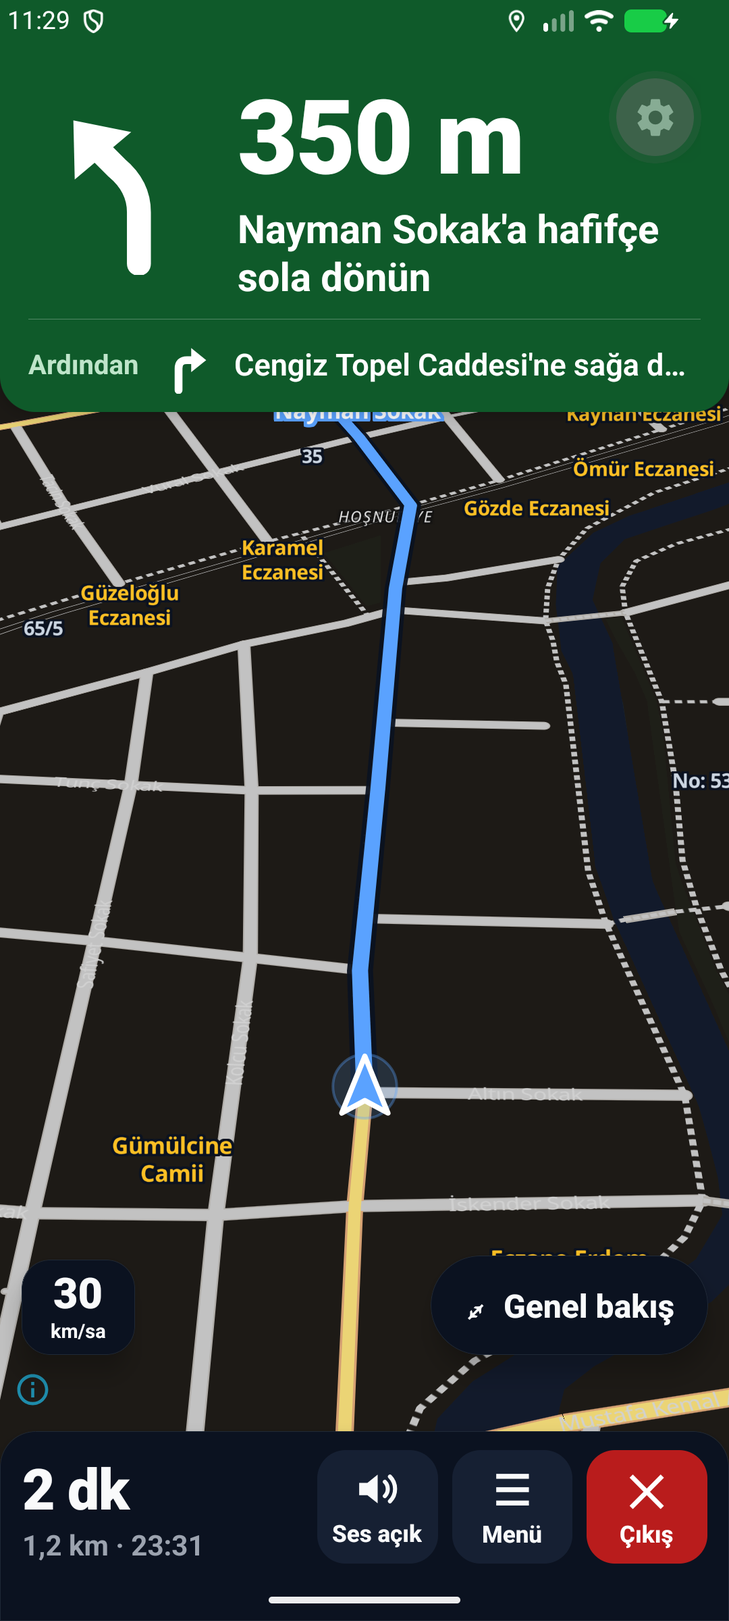
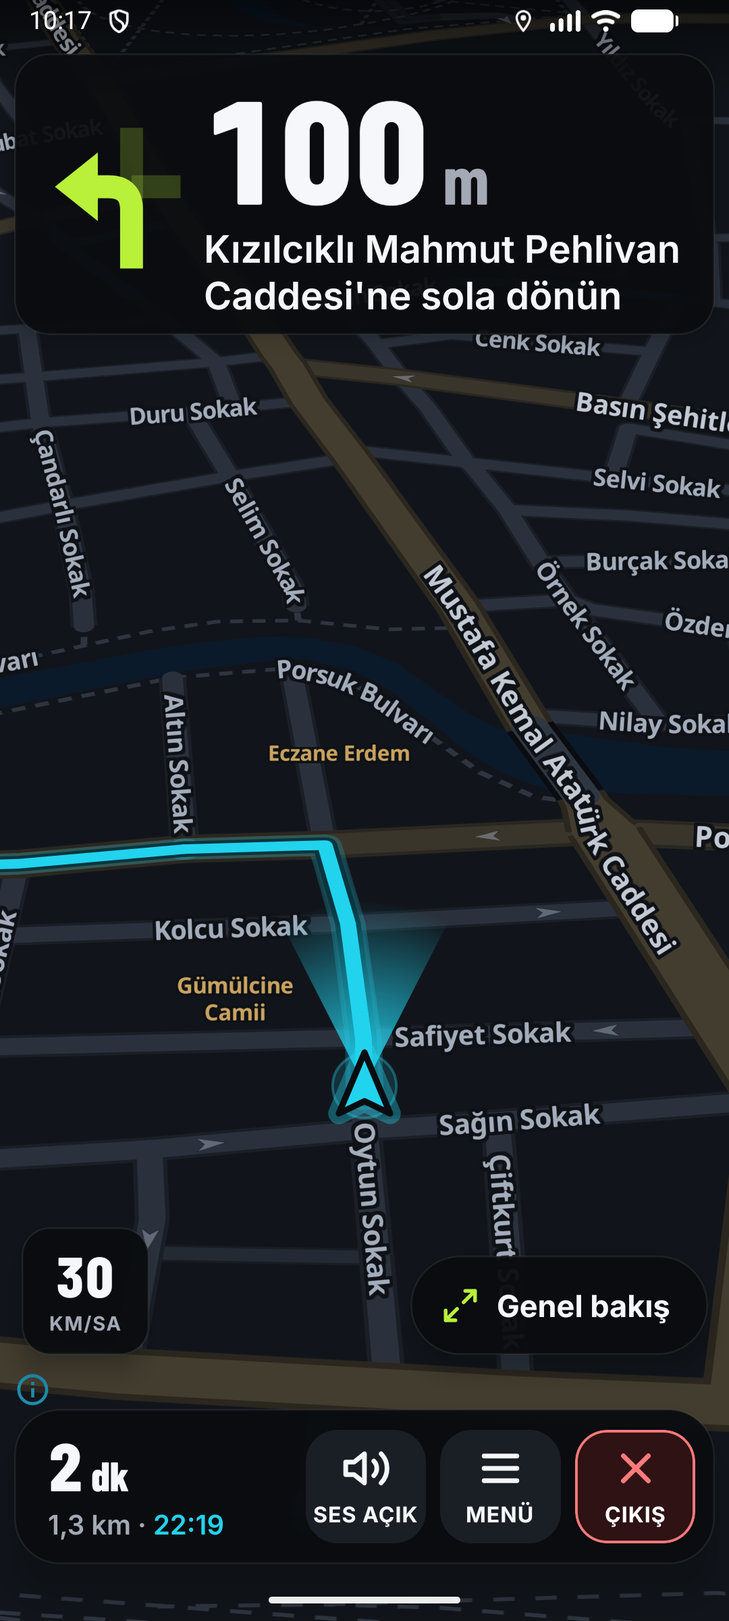
docs: Iterasyon 3b uygulamasi, navigasyon akiciligi (ADR-0024), marka kimligi (ADR-0027) ve yeni ekran goruntuleri

diff --git a/docs/benchmark/README.md b/docs/benchmark/README.md
@@ -34,6 +34,18 @@ Sentetik bir Eskişehir günü (20 kurye, ~400 sipariş, 10 tohum). Her ölçüt
 
 **Duyarlılık uyarısı:** yukarıdaki fark, stratejilerin hazır olma anını bilmediği varsayılan (pilotun bugünkü) durum içindir. İşletmenin hazır olma anı biliniyorsa (aşağıdaki duyarlılık koşusu) toplam km farkı A'ya göre B için -8.1%, C için -13.9%, geç teslim farkı B için -96.5%, C için -98.4% olur: kilometre kazancı belirgin biçimde küçülür, geç teslim kazancı büyür. Başlık sayıları bu yüzden tek başına değil, iki tabloyla birlikte okunmalıdır.
 
+## Aynı işletme gruplaması (İterasyon 3b-3): gerçek etki v2 taban çizgisine göredir
+
+Ayrıntılı rapor: v2/gruplama.md (30 tohum, eşleştirilmiş %95 GA, ablation). Dikkat: yukarıdaki tablolardaki A (NC) karşılaştırması gruplamanın etkisini **göstermez**; NC'ye göre +33 puanın hemen hemen tamamı dağıtım v2'nin kendisinden (60 sn pencere, regret-3) gelir. Gruplamanın gerçek etkisi RH60-PROD'a (v2, gruplamasız) göre farktır:
+
+| Varyant (aynı işletme kümesi aynı kuryede) | Varsayılan gün | Tepe gün |
+|---|---:|---:|
+| RH60-PROD (v2, gruplamasız) | %74,4 | %60,4 |
+| RH60-G, spec varsayılanları (κ 90, bağlama 120, τ 0,10), PROD'a göre | +1,4 puan [-1,1; 4,0] (anlamsız) | -1,2 puan [-3,3; 0,9] (anlamsız) |
+| RH60-G-T, önerilen (κ 150, bağlama 240, τ 0,5), PROD'a göre | +7,8 puan [5,2; 10,4] ✱ | +9,5 puan [7,4; 11,6] ✱ |
+
+Spec varsayılanlarında τ = 0,10 kazancı siler (tek başına PROD'a göre -4,0 / -5,7 puan ✱); κ ve sonradan bağlama tek başına +4-5 puan ✱. Önerilen bileşim toplam km'yi +%1,1 / +%1,2 ✱ ve geç teslimi +0,3 / +0,45 puan artırır. Tepe günde mutlak %75 hedefine ulaşılmadı (en iyi %71,4).
+
 ## Hipotezler ve sonuç
 
 Hipotezler (ROTA-UYUMLU-ATAMA §16) hedeftir, sonuç değildir; aşağıda ölçülen değerlerle karşılaştırılır.
@@ -117,6 +129,85 @@ Aynı tohumlar; stratejiler (motor) `readyAt` bilgisini kullanır (bekleme maliy
 | Yüklü oran (%) | -22.7% | -35.8% | -39.7% |
 | Aynı işletme kümesi aynı kuryede (%) | +4.3% | -29.1% | +9.0% |
 
+<!-- ready-3:begin -->
+## Hazır zamanı: üç koşul (İterasyon 3b-2)
+
+Hazır zamanının stratejilere nasıl bildirildiği üç koşulda karşılaştırılır; aynı gün, aynı tohum, aynı matris (10 tohum, varsayılan gün ~400 sipariş). Hazırlık süresi bu koşuda **işletme bazlı** modelle üretilir (`--prep business`): işletme medyanı U(6, 16) dk, tepe saatlerde × 1,2, lognormal σ = 0,35, [3, 30] dk kırpma. Varsayılan tablolar (yukarıdaki) bugünkü, işletmeden bağımsız 5-20 dk üreteciyle üretilmeye devam eder ve **değişmez**.
+
+- **Bilinmeyen:** hazır anı stratejiye bildirilmez; kurye gelir ve hazır olana kadar bekler (bugünkü durum).
+- **Tahmini:** `readyAt` = sipariş girişi + işletme × gün dilimi (tepe / tepe dışı) **P60** hazırlık süresi. Tahmin 14 eğitim gününden (tohum 1001-1014, rapor tohumları 1-10 ile ayrık) öğrenilir; bir kovada 10'dan az gözlem varsa kiracı varsayılanı 12 dk kullanılır. Stratejiler tahmini gerçek gibi kullanır; kurye gerçek hazır anına kadar bekler.
+- **Bilinen:** `readyAt` = gerçek hazır anı.
+
+Geç teslim
+
+Alış bekleme
+
+Her hücre 10 tohumun ortalaması ± standart sapmasıdır.
+
+| Strateji | Koşul | Geç teslim (%) | Alış bekleme (dk/sipariş) | Toplam km | Teslimat süresi (dk) | Aynı işletme aynı kuryede (%) |
+|---|---|---:|---:|---:|---:|---:|
+| **A (en yakın kurye)** | Bilinmeyen (bugünkü) | 25.45 ± 4.46 | 5.22 ± 0.33 | 1918.38 ± 116.72 | 43.68 ± 1.30 | 46.67 ± 6.16 |
+| **A (en yakın kurye)** | Tahmini (P60) | 25.45 ± 4.46 | 5.22 ± 0.33 | 1918.38 ± 116.72 | 43.68 ± 1.30 | 46.67 ± 6.16 |
+| **A (en yakın kurye)** | Bilinen (gerçek) | 25.45 ± 4.46 | 5.22 ± 0.33 | 1918.38 ± 116.72 | 43.68 ± 1.30 | 46.67 ± 6.16 |
+| **D (A + sıra)** | Bilinmeyen (bugünkü) | 16.37 ± 3.02 | 4.94 ± 0.39 | 1673.52 ± 120.21 | 40.28 ± 1.01 | 47.57 ± 9.63 |
+| **D (A + sıra)** | Tahmini (P60) | 4.28 ± 1.21 | 3.71 ± 0.39 | 1727.91 ± 127.06 | 35.04 ± 0.95 | 49.79 ± 8.10 |
+| **D (A + sıra)** | Bilinen (gerçek) | 2.71 ± 0.94 | 3.63 ± 0.36 | 1716.10 ± 115.26 | 33.75 ± 0.70 | 50.52 ± 9.42 |
+| **B (ONERI üst sınırı)** | Bilinmeyen (bugünkü) | 6.31 ± 1.30 | 5.70 ± 0.31 | 1308.21 ± 73.18 | 32.12 ± 0.51 | 46.87 ± 11.22 |
+| **B (ONERI üst sınırı)** | Tahmini (P60) | 0.95 ± 0.51 | 2.83 ± 0.21 | 1853.31 ± 83.14 | 28.63 ± 0.48 | 29.91 ± 11.27 |
+| **B (ONERI üst sınırı)** | Bilinen (gerçek) | 0.33 ± 0.49 | 2.36 ± 0.23 | 1823.37 ± 83.81 | 26.89 ± 0.58 | 28.06 ± 10.56 |
+| **C (v1 OTOMATİK)** | Bilinmeyen (bugünkü) | 4.74 ± 1.30 | 4.61 ± 0.21 | 1311.81 ± 65.38 | 31.58 ± 0.49 | 60.49 ± 16.27 |
+| **C (v1 OTOMATİK)** | Tahmini (P60) | 0.98 ± 0.59 | 1.73 ± 0.12 | 1711.76 ± 73.95 | 29.56 ± 0.54 | 42.19 ± 18.06 |
+| **C (v1 OTOMATİK)** | Bilinen (gerçek) | 0.43 ± 0.30 | 1.45 ± 0.21 | 1719.04 ± 76.61 | 27.17 ± 0.33 | 39.98 ± 7.51 |
+| **RH60-PROD (v2)** | Bilinmeyen (bugünkü) | 5.08 ± 1.52 | 4.60 ± 0.25 | 1307.41 ± 73.98 | 30.55 ± 0.75 | 72.67 ± 7.76 |
+| **RH60-PROD (v2)** | Tahmini (P60) | 0.86 ± 0.38 | 2.04 ± 0.22 | 1652.94 ± 69.77 | 28.42 ± 0.32 | 51.52 ± 11.40 |
+| **RH60-PROD (v2)** | Bilinen (gerçek) | 0.22 ± 0.25 | 1.61 ± 0.17 | 1658.53 ± 77.87 | 26.23 ± 0.29 | 53.36 ± 9.01 |
+| **RH60-G (v2 + gruplama)** | Bilinmeyen (bugünkü) | 5.04 ± 1.33 | 4.61 ± 0.26 | 1318.06 ± 71.99 | 30.74 ± 0.54 | 74.53 ± 8.16 |
+| **RH60-G (v2 + gruplama)** | Tahmini (P60) | 1.06 ± 0.44 | 1.96 ± 0.20 | 1649.27 ± 78.48 | 28.61 ± 0.47 | 44.28 ± 12.94 |
+| **RH60-G (v2 + gruplama)** | Bilinen (gerçek) | 0.27 ± 0.24 | 1.57 ± 0.18 | 1660.89 ± 71.68 | 26.30 ± 0.40 | 52.00 ± 10.97 |
+
+**Bilinmeyen koşuya göre eşleştirilmiş fark** (aynı tohum), ortalama [%95 GA, t dağılımı, sd = 9]; ✱ = aralık 0'ı içermiyor. Negatif geç teslim ve bekleme iyidir.
+
+| Strateji | Karşılaştırma | Geç teslim (%) | Alış bekleme (dk/sipariş) | Toplam km | Teslimat süresi (dk) |
+|---|---|---:|---:|---:|---:|
+| **A (en yakın kurye)** | Tahmini (P60) − Bilinmeyen (bugünkü) | +0.00 [0.00, 0.00] | +0.00 [0.00, 0.00] | +0.00 [0.00, 0.00] | +0.00 [0.00, 0.00] |
+| **A (en yakın kurye)** | Bilinen (gerçek) − Bilinmeyen (bugünkü) | +0.00 [0.00, 0.00] | +0.00 [0.00, 0.00] | +0.00 [0.00, 0.00] | +0.00 [0.00, 0.00] |
+| **D (A + sıra)** | Tahmini (P60) − Bilinmeyen (bugünkü) | -12.10 [-14.57, -9.63] ✱ | -1.24 [-1.47, -1.00] ✱ | +54.40 [15.17, 93.62] ✱ | -5.24 [-6.04, -4.43] ✱ |
+| **D (A + sıra)** | Bilinen (gerçek) − Bilinmeyen (bugünkü) | -13.66 [-15.75, -11.58] ✱ | -1.32 [-1.52, -1.11] ✱ | +42.58 [11.41, 73.76] ✱ | -6.53 [-7.20, -5.87] ✱ |
+| **B (ONERI üst sınırı)** | Tahmini (P60) − Bilinmeyen (bugünkü) | -5.36 [-6.28, -4.43] ✱ | -2.87 [-3.02, -2.72] ✱ | +545.09 [526.78, 563.41] ✱ | -3.49 [-4.07, -2.90] ✱ |
+| **B (ONERI üst sınırı)** | Bilinen (gerçek) − Bilinmeyen (bugünkü) | -5.98 [-7.07, -4.89] ✱ | -3.34 [-3.50, -3.17] ✱ | +515.15 [492.22, 538.08] ✱ | -5.23 [-5.77, -4.69] ✱ |
+| **C (v1 OTOMATİK)** | Tahmini (P60) − Bilinmeyen (bugünkü) | -3.76 [-4.76, -2.76] ✱ | -2.88 [-2.96, -2.81] ✱ | +399.94 [370.17, 429.72] ✱ | -2.02 [-2.30, -1.74] ✱ |
+| **C (v1 OTOMATİK)** | Bilinen (gerçek) − Bilinmeyen (bugünkü) | -4.31 [-5.28, -3.34] ✱ | -3.16 [-3.31, -3.02] ✱ | +407.23 [389.18, 425.27] ✱ | -4.41 [-4.90, -3.91] ✱ |
+| **RH60-PROD (v2)** | Tahmini (P60) − Bilinmeyen (bugünkü) | -4.23 [-5.14, -3.32] ✱ | -2.56 [-2.75, -2.38] ✱ | +345.53 [319.49, 371.58] ✱ | -2.13 [-2.60, -1.66] ✱ |
+| **RH60-PROD (v2)** | Bilinen (gerçek) − Bilinmeyen (bugünkü) | -4.86 [-5.90, -3.82] ✱ | -2.99 [-3.14, -2.84] ✱ | +351.12 [325.88, 376.36] ✱ | -4.32 [-4.86, -3.77] ✱ |
+| **RH60-G (v2 + gruplama)** | Tahmini (P60) − Bilinmeyen (bugünkü) | -3.98 [-4.87, -3.09] ✱ | -2.64 [-2.84, -2.45] ✱ | +331.21 [304.21, 358.20] ✱ | -2.13 [-2.64, -1.62] ✱ |
+| **RH60-G (v2 + gruplama)** | Bilinen (gerçek) − Bilinmeyen (bugünkü) | -4.76 [-5.74, -3.78] ✱ | -3.04 [-3.18, -2.91] ✱ | +342.83 [316.01, 369.65] ✱ | -4.45 [-5.00, -3.89] ✱ |
+
+**Tahminin kapattığı fark:** tahmini koşuyla bilinen koşu arasında kalan fark (tahmini − bilinen) ve bilinmeyenden bilinene toplam iyileşmenin ne kadarını tahmin yakaladığı:
+
+| Strateji | Geç teslim: tahmini − bilinen (puan) | Alış bekleme: tahmini − bilinen (dk) | Bekleme iyileşmesinin yakalanan payı |
+|---|---:|---:|---:|
+| **A (en yakın kurye)** | 0.00 | 0.00 | - |
+| **D (A + sıra)** | 1.57 | 0.08 | %94 |
+| **B (ONERI üst sınırı)** | 0.62 | 0.47 | %86 |
+| **C (v1 OTOMATİK)** | 0.55 | 0.28 | %91 |
+| **RH60-PROD (v2)** | 0.63 | 0.43 | %86 |
+| **RH60-G (v2 + gruplama)** | 0.79 | 0.40 | %87 |
+
+**Tahmin hatası (MAE):** gerçek hazırlık süresi ile tahmin arasındaki ortalama mutlak hata, rapor günlerindeki tüm siparişler üzerinden.
+
+| Tahmin | MAE (dk) |
+|---|---:|
+| İşletme × gün dilimi P60 (14 eğitim günü) | 3.57 |
+| Kiracı varsayılanı (sabit 12 dk) | 4.44 |
+| İşletme × gün dilimi P50 (bilgi amaçlı; stratejilere verilmez) | 3.45 |
+| P60'ın varsayılana göre farkı | -19.8% |
+| P50'nin varsayılana göre farkı | -22.3% |
+
+SPEC §15.1 3b-2 (b): ≥ 10 gözlemli işletmede MAE'nin işletme varsayılanından en az %20 düşük olması beklenir; bu sentetik veride P60 için karşılanmadı (-19.8%), P50 için karşılandı (-22.3%; MAE'yi en aza indiren tahmin medyandır, P60 ise bilinçli olarak biraz yüksek tahmin eder: kurye hazır olmadan gelmesin) (kovaların 80/80'i ≥ 10 gözlemli). Hazırlık süresi bu senaryoda yalnızca işletmeye ve tepe saate bağlıdır; gerçek hayatta hazırlık günlük dalgalanmaya, sipariş içeriğine ve yoğunluğa da bağlıdır, bu yüzden pilot verisiyle (`GET /metrics/preparation`) doğrulanmalıdır.
+
+Sentetik senaryodur; bulgular pilotla doğrulanır. Tahmin yalnızca işletmeye göre değişen hazırlığı yakalar, günlük dalgalanmayı yakalayamaz; bu yüzden "bilinen" koşuya hiçbir zaman ulaşmaması beklenir.
+<!-- ready-3:end -->
+
 ## Motor öneri süresi (bu makinede)
 
 Matrix sağlayıcıyla saf CPU: `suggest()` çağrısı p50 0.40 ms, p95 1.36 ms (n = 5524); `planBatch` p50 0.63 ms, p95 2.08 ms (n = 8835). Süreler makineye bağlıdır ve CSV'ye girmez; gerçek OSRM ile uçtan uca ölçüm için `npm run bench:suggest -w @kurye/api`.
@@ -140,6 +231,7 @@ npm install
 npm run benchmark                  # docs/benchmark/ altındaki dosyaları yeniden üretir (önbellekli matris)
 npm run benchmark -- --refresh-matrix   # matrisi çalışan OSRM'den yeniden hesaplar (npm run routing:up)
 npm run benchmark -- --quick --travel haversine   # OSRM'siz duman testi (yayımlanmaz)
+npm run benchmark -- --prep business --ready-modes unknown,estimated,known   # Hazır zamanı: üç koşul (results-ready-3.csv, ready-3.md)
 ```
 
 İki ardışık koşu bayt düzeyinde aynı `results.csv` dosyasını üretir (zaman damgası yok, tohumlu PRNG, duvar saati kullanılmaz).

diff --git a/docs/kararlar/0024-navigasyon-render-performansi.md b/docs/kararlar/0024-navigasyon-render-performansi.md
@@ -1,0 +1,48 @@
+# ADR-0024: Navigasyon ekranında render performansı (yerel kamera animasyonu, konum başına harita ağacı çizimi yok, kalite kademesi)
+
+- **Durum:** Önerildi (ürün sahibi onayına; gerçek cihaz ölçümü bekleniyor)
+- **Tarih:** 2026-11-06
+- **Ayrıntılandırdığı karar:** [ADR-0015](0015-uygulama-ici-navigasyon.md) madde 3 ("kamera ve konum işaretçisi animasyonları sınırlıdır") ve N2 brief'indeki kare hızı bütçesi
+- **İlgili:** [ADR-0002](0002-kurye-uygulamasi-react-native-expo.md), [ADR-0019](0019-kurye-cevrimdisi-harita-ve-navigasyon.md), ölçüm belgesi NAVIGASYON-AKICILIK.md
+
+## Bağlam
+
+- Navigasyon ekranı MapLibre (`@maplibre/maplibre-react-native` 11.5, MapLibre Native Android, `SurfaceView`) üzerinde course-up takip kamerası, rota çizgisi, koridor etiketleri (`within` filtresi), sokak adları, hedef işareti ve React Native bant / alt çubuktan oluşur.
+- Sürüm APK'sıyla emülatörde (2 GB RAM, `-gpu host`) 1 Hz GPS oynatmasında ölçüldü (SurfaceFlinger timestats, `top -H`, uygulama içi JS sondası). Ayrıntılı sayılar belgede; özet:
+  - Harita yüzeyi 30 fps tavanında (`preferredFramesPerSecond={30}`) bile ortalama 8-25 fps, kare aralığı p50 33-110 ms; **MapLibre GL iş parçacığı %65-90 CPU** ile darboğaz (emülatörün GL çeviri yolu pahalıdır; gerçek cihazda farklı olabilir).
+  - Her GPS okumasında tüm `NavMap` React ağacı yeniden çiziliyordu (`NavMap.render` 1/sn; 4 kaynak + 12 katman bileşeni) ve tüm kalan rota GeoJSON'u yeniden gönderiliyordu.
+  - Hedef işareti bir RN görünümü (`Marker`) olduğu için Android her harita karesinde onu yeniden konumluyor, **uygulama penceresi (HWUI) harita kare hızında yeniden çiziliyordu** (ablasyon: işaret kaldırılınca uygulama penceresi 24 fps -> 1,4 fps).
+  - Kamera 1 sn doğrusal `easeTo` ile ve en az 900 ms arayla güncelleniyordu: 980 ms gibi titreşimli 1 Hz okumalar atlanıyor, animasyon biter bitmez harita bir sonraki okumaya kadar duruyordu (200-999 ms'lik "duraklama" kareleri).
+  - **Ürün sahibi hatası:** yeniden rotadan sonra harita eski yönde çapraz kalıyordu (yön süzgeci adım başına 40° ile sınırlıydı ve sıfırlanmıyordu; ilk kamera hedefi harita abone olmadan yayınlanıp kayboluyordu).
+
+## Karar
+
+1. **Kamera yerelde, öngörülü ve kesintisiz akar.** Oturum her okumada (en az 400 ms arayla) bir kamera hedefi üretir; harita bunu MapLibre `easeTo` (doğrusal) ile verir. Süre = beklenen konum aralığı (üstel ortalama, 0,5-2 sn) x 1,5; hedef, rotaya oturmuşken hızla 0,5 aralık kadar **rota üzerinde ileri** alınmış noktadır. Kararlı durumda kamera gerçek hızla akar, gecikme bir konum aralığıdır (eskisiyle aynı) ve sonraki okuma 0,5 aralığa kadar gecikse de harita durmaz.
+2. **Course-up yönü rota geometrisinden.** Yön hedefi oturtulan noktanın önündeki ~30 m'lik rota parçasının yönüdür; GPS yönü yalnızca rotaya oturmamışken yedektir. Alçak geçiren süzgeç: güncelleme başına farkın %60'ı, en çok 60°. Yeniden rotada süzgeç sıfırlanır; son kamera hedefi oturumda tutulur ve harita onunla açılır. Puk ekranda sabit (alttan ~%33, yatay ortada), eğim 45° / dururken 30°, "Ortala" aynı kameraya döner (davranış değişmedi).
+3. **Konum başına harita ağacı çizimi yok.** `NavMap` ve katmanları yalnızca takip / kullanıcı etkileşiminde (ve 30 sn'lik fps örneklemesinde) çizilir; yalnızca küçük `RouteLine` bileşeni rota başı GeoJSON'unu göndermek için okuma başına çizilir (MapLibre RN'de kaynağa veriyi React çizimi olmadan gönderen bir API yok). Konuma bağlı her parça (rota başı, puk halesi, hız çipi, koridor filtresi, sokak adları, hedef etiketi, "rotaya dön" çizgisi) kendi `memo` bileşeninde oturuma abonedir ve yalnızca kendi değeri değişince çizilir (ör. hale 2 px adımla, hız tam sayı km/sa ile). Katman `paint` / `layout` nesneleri sabittir.
+4. **Rota çizgisi iki kaynak:** "baş" (kuryeden ~250 m ilerideki köşeye kadar, birkaç nokta, her okumada) ve "kuyruk" (oradan hedefe, ~250 m'de bir). Baş, bir önceki okumanın rota noktasından başlar; kamera bir aralık geriden geldiği için çizgi puk'un altından çıkar.
+5. **Hedef işareti (RN görünümü) yalnızca gerektiğinde:** takip kamerasında hedef kuş uçuşu 1,5 km'den yakınken ya da takip kapalıyken (genel bakış, kaydırma). Görünen davranış aynı; uzaktayken uygulama penceresi her harita karesinde yeniden çizilmez.
+6. **Kalite kademesi** (`src/navigation/quality.ts`, `expo-device`): toplam bellek < 2,5 GB veya cihaz yıl sınıfı <= 2015 ise **düşük**: 30 fps tavan, eğimsiz (düz) kamera, koridor filtresi ~250 m / 10 sn'de bir (önde yine en az ~1 km), kısa geçişler. Aksi halde **yüksek**: eğik kamera, koridor ~100 m / 5 sn ve **uyarlanır kare tavanı**: 60 fps ile başlar; oturum boyunca her 30 sn'de bir ısınma + iki 3 sn'lik pencere örneklenir (kare olayı yalnızca bu 9 sn'de JS'e gelir); harita akarken ölçülen iki ardışık pencere 40 fps'in altındaysa tavan oturum boyunca 30'a iner, geri çıkmaz. **Emülatör** (`Device.isDevice === false`) belleğine bakılmadan yüksek kademedir; gerçek 2 GB telefonlar düşük kalır. Test APK'sında `EXPO_PUBLIC_NAV_FPS_OVERLAY=1` ekranda harita fps'ini gösterir (gerçek cihaz protokolü). Gerekçe: emülatörde GL iş parçacığı doygunken 60 tavanı 30'dan belirgin biçimde kötüydü (aynı koşullarda ortalama 11 fps'e karşı 18-22 fps). `EXPO_PUBLIC_NAV_QUALITY=low|high` derleme anahtarı kademeyi zorlar.
+7. **Ölçüm araçları depoda:** `scripts/nav-perf-measure.mjs` (timestats + `top -H` + gfxinfo + meminfo + JS sondası, tek pencere), `scripts/gps-playback.mjs --interval-ms 1000 --max-s`, `src/navigation/perfProbe.ts` (yalnızca `EXPO_PUBLIC_NAV_PERF=1`).
+
+## Sonuçlar
+
+- (+) Kamera konum gecikmelerinde durmaz: emülatörde (temiz durum) 110 sn'de >= 100 ms takılma 71 -> 5-10, 200-999 ms duraklama 16 -> 0-3, kare aralığı p99 118 -> 66-82 ms; yüksek kademede ortalama 23 -> 27-34 fps.
+- (+) Yeniden rotadan sonra harita hemen yeni rota yönüne döner; rota puk'tan dümdüz yukarı çıkar (ürün sahibinin bildirdiği hata).
+- (+) `NavMap` çizimi 1/sn -> ~0,1/sn (rota başı bileşeni hariç); uygulama penceresi hedef uzaktayken harita kare hızında yeniden çizilmez; JS iş parçacığı işi azaldı.
+- (+) Yük altında (2 GB, takaslı emülatör) düşük kademe ve 30 fps tavanı tabandan iyi; sabit 60 fps tavanı GL doygunken kötüleştirdiği için yüksek kademede tavan uyarlanır.
+- (-) **Emülatörde 60 fps'e ulaşılamadı:** darboğaz MapLibre GL iş parçacığıdır (emülatörün GL çeviri yolu, 2 GB RAM'de takas). Gerçek cihazda ölçülmedi; cihaz test protokolü eşikleri tanımlar.
+- (-) Düşük kademede kamera düzdür (eğim yok): ürün sahibinin "orta eğim" tercihinden bilinçli sapma, yalnızca 2 GB sınıfı cihazlarda. Koridor etiketleri geride en çok ~280 m kalabilir.
+- (-) Yeni yerel bağımlılık: `expo-device` (Expo SDK, ücretsiz, MIT).
+- (-) Kamera hedefi en çok 0,5 aralık (40 km/sa'te ~5,5 m) ileri öngörülür; ani duruşta kamera bir an bu kadar ileri gidip geri gelebilir.
+
+## Alternatifler
+
+| Alternatif | Neden seçilmedi |
+|---|---|
+| MapLibre `trackUserLocation="course"` (yerel konum takibi) | Yön GPS seyrine bağlıdır (emülatör `geo fix` yön vermez, düşük hızda gürültülü); puk rotaya oturtulamaz ve ekranda sabit noktaya kilitlenemez (course-up kararı ADR-0015) |
+| Reanimated paylaşılan değerleriyle kamera | MapLibre kamerası RN köprüsünde animasyonlu prop desteklemez; her karede komut göndermek yerel `easeTo`'dan pahalıdır |
+| `line-gradient` + `line-progress` ile geçilen rotayı gizleme | Gradyan dokusu rota boyunca ~256 örnek: 3-5 km rotada 15-20 m adım, puk arkasında çizgi taşması; baş / kuyruk bölmesi tam hassas |
+| Hedef işaretini simge katmanına çevirmek | `StopBadge` (kare / daire / elmas + numara) için sprite üretimi gerekir; görünüm değişir. Uzaklık eşiği aynı kazancı görünür değişiklik olmadan verir |
+| Koridor etiketlerini kaldırmak | Ürün sahibi kararı (kapı numaraları yalnızca kurye çevresinde); seyrek yenileme yeterli |
+| Ücretli SDK (Mapbox / Google Navigation) | ADR-0015'te reddedildi; ücretli servis yok |

diff --git a/docs/kararlar/0027-marka-kimligi-ve-navigasyon-gorsel-dili.md b/docs/kararlar/0027-marka-kimligi-ve-navigasyon-gorsel-dili.md
@@ -1,0 +1,44 @@
+# ADR-0027: Marka kimliği ve navigasyon görsel dili: koyu krom + neon yeşil, gündüz açık harita, koyu krom üzerinde metin ≥ 7:1
+
+- **Durum:** Kabul edildi (ürün sahibi, 2026-11-06; uygulama ayrı görev)
+- **Tarih:** 2026-11-06
+- **İlgili:** [ADR-0015](0015-uygulama-ici-navigasyon.md) (uygulama içi navigasyon), [ADR-0018](0018-harita-karo-ve-stil-sunumu.md) (stiller, glyph, sprite), [ADR-0004](0004-cok-kiracili-mimari.md) (çok kiracılı), `docs/tasarim/navigasyon/secim.md`, `docs/tasarim/marka/tokens.json`
+
+## Bağlam
+
+Uygulama içi navigasyon ekranı (ADR-0015) çalışıyor, ama ürün sahibi görünüşü "kaba / keskin" buldu. Ölçülen nedenler: koyu kahverengi-gri yol kenarlıkları (`#9c958a`), tam doygun yeşil bant ve sert gölge, ikon yerine metin glifleri (`☰ ✕ ◎ ⤢`), her yerde 900 kalınlık ve gündüz stilinden formülle türetilen, ara sokakları parlak gri çizgilere çeviren gece haritası.
+
+Ürünün henüz bir marka dili yok: kurye uygulaması teal `#0F766E`, panel Mantine `indigo` kullanıyor. Sistem başka kurye ekiplerine çok kiracılı hizmet (SaaS) olarak satılacak (kurye uygulaması + yönetici paneli); tanınır ve tutarlı bir kimlik gerekiyor.
+
+Kurye kısıtları değişmez: telefon motosiklet tutucusunda, bir bakışta okunur; çok büyük mesafe ve ok, güneşte yüksek kontrast, otomatik gece, ≥ 56 dp eldiven hedefi, kasıtlı çıkış, ses öncelikli, puk alt üçte birde, yön-yukarı eğik kamera.
+
+Uygulama kodu değiştirilmeden üç görsel varyant statik maket olarak hazırlandı ve karşılaştırıldı: `docs/tasarim/navigasyon/index.html` (README ve `tokens.json` ile).
+
+## Karar
+
+1. **Varyant B (Koyu / premium) seçildi ve ürünün kurumsal marka dili olur.** Siyaha yakın krom (`#111318` / `#0A0C0F`), beyaz metin, tek vurgu **neon yeşil `#C8FF3A`** (gece `#B8F03A`), açık zeminde metin/bağlantı için `#3F6212` (7,1:1), ikon/kenar için `#4D7C0F`. Yazı tipleri Inter (arayüz) + Barlow Condensed (büyük rakamlar), ikisi de OFL ve uygulamaya gömülür. Arayüz ikonları Lucide tarzı çizgi (2,25); manevra okları geometrik kalın çizgi, dolu sivri ok başı, kavşağın diğer kolları %22 "hayalet".
+2. **Güneş ışığı kuralı: koyu krom üzerinde her metin ≥ 7:1; gündüz harita açıktır.** Gündüz harita açık "gümüş" palet (zemin `#ECEEF1`, beyaz yollar, gri kenarlıklar), krom %100 opak (saydamlık yok) + 1 px açık kenar. Gece harita koyu, krom %94 opak. Ölçülen değerler: beyaz 18,6:1, neon 15,8:1, ikincil gri `#B4BAC4` 9,5:1, Çıkış kırmızısı `#FF7A7A` 7,4:1.
+3. **Gündüz rota koyu mavi** `#006BB8` + lacivert kenar `#002E4F` + hafif parıltı (açık haritada 4,6:1); neon rota açık haritada görünmez (1,0:1). Gece rota camgöbeği `#22D3EE`.
+4. **Başarı rengi nane yeşili `#3DDC97`** (açık zeminde `#047857`): "tamamlandı" anlamı marka neonuyla karışmaz. Uyarı `#FBBF24`, tehlike `#FF7A7A` / dolu `#FF4D4F` + siyah metin, bilgi `#22D3EE`.
+5. **Gece haritası formülle değil, elle ayarlı palet** (`NAV_NIGHT`) ile üretilir; değerler MapLibre katman kimliğiyle tanımlıdır.
+6. **Canlı bulanıklık (blur) kullanılmaz**; "cam" görünümü opak yüzey + ince kenarla. Gölgeler yalnızca Android `elevation`.
+7. **Tek kaynak:** `docs/tasarim/marka/tokens.json`. `navigation.ui` alanları `NavTheme` ile aynı adlı, `navigation.maplibre` alanları `courier-nav-*.json` / `NavMap.tsx` katman kimlikleriyle aynı. Son maket: `docs/tasarim/navigasyon/b-v1.html`.
+8. **Kapsam:** önce kurye uygulaması (navigasyon ekranı, sonra diğer ekranlar). Yönetici paneli **ayrı bir görevde** aynı belirteçlerle geçer (Mantine'de özel 10 tonlu `neon` paleti, koyu kenar çubuğu, açık içerik alanı; bkz. `docs/tasarim/marka/README.md`). Kiracıya özel logo / renk (white-label) bu kararın kapsamı dışında.
+
+## Sonuçlar
+
+- (+) Ayırt edici, satılabilir bir kimlik; kurye uygulaması ve panel aynı dili konuşur.
+- (+) Okunurluk sayısal bir kurala bağlanır (≥ 7:1); yeni ekranlar ve kiracı özelleştirmeleri bu kurala göre denetlenebilir.
+- (+) Gece en az parlama; elle gece paleti ara sokakların göz alıcı parlaklığını giderir.
+- (+) Uygulama maliyeti sınırlı (M): `theme.ts`, `NavBanner`, `NavBottomBar`, `ManeuverArrow`, `NavMap` stilleri, iki TTF, `generate-styles.mjs` paletleri; yeni bir `nav-route-glow` katmanı ve sprite'a koyu çip görseli.
+- (−) Koyu krom doğrudan güneşte camda yansımayı daha çok gösterir; tam opak krom ve ≥ 7:1 kural riski azaltır ama sahada (öğle güneşi, gidon tutucu, düşük segment Android) doğrulanmalı.
+- (−) İki yazı tipi uygulama boyutunu artırır (kullanılan 2-3 ağırlık, birkaç yüz KB).
+- (−) Mevcut teal / yeşil kullanılan ekranlar geçiş süresince tutarsız görünür; geçiş ekran ekran yapılır.
+- (−) Harita etiket yazı tipi Noto Sans kalır (ADR-0018 glyph seti); arayüz yazı tipiyle birebir aynı değildir.
+
+## Alternatifler
+
+- **A · Sade (Google Maps benzeri):** beyaz yüzen kart, mavi ok karosu, açık yol kenarlıkları. Güneşte en güvenli (16,1:1) ve ucuz; yakın ikinci oldu. Reddedildi: Google Haritalar'a fazla benziyor, satılacak ürüne ayırt edici bir kimlik vermiyor; gece B kadar iyi değil.
+- **C · Marka / canlı (teal + turuncu, Nunito, hap biçimli kontroller):** mevcut ekrana en yakın, en ucuz geçiş (S–M). Reddedildi: mevcut teal'ı sürdürür ama "premium araç" algısı vermiyor; teal rota park yeşiliyle karışma riski taşıyor.
+- **B'nin her şey koyu hali (gündüz de koyu harita):** güneşte harita okunmuyor; yalnızca gece modu olarak kaldı.
+- **B'nin gündüz açık krom hali:** güneşte güvenli ama neon beyazda kullanılamıyor (1,0:1); marka gündüz kaybolur.

diff --git a/docs/kararlar/0026-teslim-geofence-politikasi.md b/docs/kararlar/0026-teslim-geofence-politikasi.md
@@ -40,8 +40,21 @@
 
 ## Uygulama notları — API
 
-_(Görev Q3b doldurur: sunucu tarafı uygulama, ölçülen davranış, sapmalar.)_
+- **Kod:** saf `decideGeofence` (`services/api/src/packages/geofence.ts`) ve `GeofenceDeliveryVerifier` (`delivery-verifier.ts`). `courierAction` DELIVER akışı: rota kilidi -> paket satırı kilidi -> yalnızca paket bu kuryede `PICKED_UP` ise geofence -> bugünkü teslim. Hedef durumdaki yeniden deneme ve çakışmalar 422 almaz; bugünkü 400 VALIDATION_FAILED dalı kaldırıldı, PICKUP serbesttir.
+- **422:** `OUTSIDE_DELIVERY_GEOFENCE` (`distanceM` 10 m yuvarlanmış, konum yoksa `null`; `requiredM`; `targetSource`). Kesici 422'yi sakladığı için aynı anahtar aynı yanıtı döner; geçersiz kılma yeni anahtarla gönderilir (`geofence.e2e-spec.ts`). Gövde farklıysa (ör. `recordedAt` değişmişse) kesici `IDEMPOTENCY_KEY_REUSED` döner; istemci yeniden gönderimde özgün `position` ve `occurredAt`'i aynen kullanmalıdır (M3b'ye not).
+- **Olay verisi:** her DELIVER'da `data.geofence` (OFF dahil: `DISABLED`, `distanceM: null`). `Package.deliveryCheck` son DELIVERED olayından okunur. `GET /metrics/delivery-geofence` kurye kırılımı içermez; ölçülen teslim = INSIDE + dışarıda + konumsuz (DISABLED ve LOW_ACCURACY ölçüm dışı).
+- **Öğrenme ilişkisi:** geçersiz kılma, `OUTSIDE_OBSERVED`, düşük doğruluk, sahte konum, konumsuz ve bayat konumlu teslimler gözlem olmaz (`observation-filter.ts`). Ortak test vektörleri: `services/api/test/fixtures/geofence-vectors.json` (31 durum; mobil kopyalar).
+- Varsayılan `OBSERVE`; ENFORCE'a geçiş çalışma kitabı adımıdır (tüm kuryeler 3b APK'sına geçince).
 
 ## Uygulama notları — Mobil
 
-_(Görev M3b doldurur: cihazda ön uyarı, geçersiz kılma akışı, emülatör / cihaz gözlemleri.)_
+İterasyon 3b-4, kurye uygulaması (M3b). Ölçüm kaynağı: `Medium_Phone_API_36.1` emülatörü (release APK, x86_64) + yerel mock sunucu (`MOCK_GEOFENCE_MODE=ENFORCE`, `/__mock/geofence?mode=`); gerçek API (PR #34) birleşmediği için bu doğrulama mock ile yapıldı.
+
+- **Cihazda karar:** `src/lib/geofence.ts` `decideGeofence`, sunucuyla ortak vektör dosyasını (`geofence-vectors.json`) geçer. Hedef sırası: paketin `deliveryTarget` (konum + `toleranceM`), yoksa rota durağının etkin konumu ve `locationSource`'u, yoksa geocoder noktası (`lowConfidenceToleranceM`). Ayarlar önbellekteki `tenant.settings.delivery`'den okunur, bu yüzden aynı karar **çevrimdışıyken de** verilir.
+- **Tek yol:** rota kartı, navigasyon varış kartı ve paket ayrıntısındaki "Teslim ettim" aynı `deliverWithGeofence` akışını kullanır. ENFORCE + dışarıda (ya da konumsuz): tam ekran sayfa ("Teslim noktasına git" birincil, "Vazgeç", "Yine de teslim ettim"), sonra üç büyük gerekçe ve kaydırarak onay. Gerekçe seçilmeden kaydırma etkinleşmez; "Vazgeç" hiçbir şeyi kuyruğa yazmaz. OBSERVE, OFF, INSIDE ve düşük doğruluk (> 50 m) engellemez: yalnızca bilgi şeridi (düşük doğrulukta uyarı) gösterilir.
+- **Kuyruk:** `classify` 422 `OUTSIDE_DELIVERY_GEOFENCE` yanıtını `NEEDS_OVERRIDE` yapar (`action_queue.state` genişledi; `distanceM`, `requiredM` kayda yazılır). Gönderici bu kaydı atlar, sıradaki kayıtları sürdürür. Kalıcı kart ("Teslim onay bekliyor") kapatılamaz; tek çıkış gerekçe seçmek ya da "Vazgeç" ile bilinçli iptaldir (paket yolda kalır). Gerekçeyle yeniden gönderim **yeni `Idempotency-Key`**, özgün `occurredAt` ve özgün `position` ile yapılır (emülatörde doğrulandı: sunucu günlüğünde özgün olay zamanı, yeni anahtar).
+- **Çevrimdışı gerekçe:** uçak modunda 1,9 km uzaktaki teslimde önbellekteki ayarla uyarı sayfası açıldı, gerekçe + kaydırma sonrası "Kaydedildi, bağlanınca gönderilecek"; bağlantı gelince kayıt `geofenceOverride` ile tek seferde kabul edildi.
+- **Sunucu 422'si (cihaz eski ayarla OBSERVE sanıyordu):** mock'ta kip çalışırken ENFORCE'a çevrildi; teslim 422 aldı, gerekçe sayfası doğrudan ikinci adımda açıldı, kapatınca kalıcı kart kaldı, gerekçeyle gönderim kabul edildi.
+- **Hazır durumu:** `ready-status` kuyruğa girmez; çevrimdışıyken düğmeler devre dışı ve "Bağlantı gerekli" yazar. "Hazır değil" etiketi kalan süreyi yuvarlar (yukarı yuvarlama bildirimden hemen sonra "~6 dk" gösteriyordu).
+- **Gözlem:** hiç açılmamış bir paketin ayrıntısı çevrimdışıyken önbellekte yoktur ("Sunucuya ulaşılamıyor"); rota kartı çevrimdışı çalışır. Bu, 3a'dan gelen davranıştır ve M3b kapsamında değiştirilmedi.
+

diff --git a/docs/kararlar/0014-toplu-atama-regret-ekleme.md b/docs/kararlar/0014-toplu-atama-regret-ekleme.md
@@ -61,3 +61,7 @@ Maliyet, tekil atamadaki skorun aynısıdır (ADR-0009: sapma + α·gecikme + β
 ## Güncelleme (2026-11-06): İterasyon 3b-3 kapsamı
 
 Madde 3'ün (aynı işletme gruplaması) iyileştirilmesi SPEC-3b §8'de tanımlandı: aynı alış ödülü κ (90 sn), ortak / ayrık değerlendirme τ (0,10), sonradan bağlama (120 sn) ve işletme duyarlı pencere kapanışı (en çok +40 sn). **Kapsam kararı:** değişiklikler dağıtım v2 kayan ufkuna ([ADR-0023](0023-dagitim-algoritmasi-v2.md)) ve `suggest` sıralamasına uygulanır; bu ADR'deki v1 `planBatch` (20 sn pencere, regret-2) **değişmez** ve v2 kapalı kiracılar için donmuş yedek olarak kalır. Gerekçe: v2 OTOMATİK'in hedef yoludur ve 60 sn pencereyi zaten kullanır; iki yolu birlikte değiştirmek doğrulama yükünü ikiye katlar; varsayılan ONERI modunda karar `suggest` ile verildiği için κ ve bağlama v2 kapalıyken de yöneticiye ulaşır. Tümü `settings.dispatch.grouping.enabled` (varsayılan kapalı) arkasındadır; benchmark sonucu (30 tohum, eşleştirilmiş GA, ablation) uygulama görevince buraya eklenir.
+
+## Sonuç (2026-11-06): İterasyon 3b-3 benchmark
+
+Motor ve ölçüm: benchmark v2 gruplama raporu (30 tohum, iki senaryo, eşleştirilmiş %95 GA, ablation). **Gruplamanın gerçek etkisi v2 taban çizgisine (RH60-PROD, %74,4 / %60,4) göre okunmalıdır, NC'ye göre değil:** NC'ye göre +33 puanın neredeyse tamamı dağıtım v2'nin kendisinden (60 sn pencere, regret-3) gelir. Spec varsayılanlarıyla (κ 90, bağlama 120, τ 0,10; RH60-G) PROD'a göre fark **istatistiksel olarak sıfırdan ayırt edilemez**: varsayılan gün +1,4 puan [-1,1; 4,0] (%75,8, mutlak hedef %75 geçildi ama taban çizgisi zaten %74,4), tepe gün -1,2 puan [-3,3; 0,9] (%59,3; mutlak hedef karşılanmadı). Ablation (PROD'a göre, varsayılan / tepe): κ +4,8 / +5,1 puan ✱; sonradan bağlama +5,2 / +3,9 ✱; **τ = 0,10 gruplamayı azaltıyor** (-4,0 / -5,7 ✱) ve kazancı siliyor; kapanış uzatması `ALL` kipinde +1,8 / +3,0 puan ve +10 sn atama gecikmesi p95; `HISTORY` sentetik veride etkisiz (π_b < 0,3). **Önerilen değerler** (tohum 101-110'da seçildi, 1-30'da doğrulandı): `kappaS` 150, `attachSlackS` 240, `tau` 0,5 (RH60-G-T) PROD'a göre **+7,8 / +9,5 puan ✱** (%82,2 / %69,9); bedel: toplam km +%1,09 / +%1,17 ✱, geç teslim +0,28 / +0,45 puan. τ olmadan ölçüm (RH60-KA: κ 90 + bağlama 120, +5,3 / +3,5 puan ✱) farkın tamamının τ = 0,10'dan geldiğini gösterir; önerilen bileşimde τ = 0,5 bu veride hiç tetiklenmez (RH60-KA-T ≡ RH60-G-T), kazanç κ 150 ve bağlama 240'tandır. Bu değerler **gruplama açıldığında** uygulanır (SPEC §5.5'ten sapma, SPEC-3b'de belgelendi); ana anahtar kapalı başlar, ürün sahibi spec değerlerine dönebilir. Tepe gündeki mutlak %75 hedefi karşılanmadı (en iyi %71,4) ve pilot verisine bırakıldı; `groupSplitM` 5000 ayrı bir ADR adayıdır (bilgi amaçlı: +5,9 / +10,3 puan, km değişmedi). `suggest` yolunda (B-G − B) varsayılan günde +10,3 puan ✱, tepe günde km +%1,4 ve geç teslim +0,9 puan ✱ bedeli var. Hazır zamanı bilinirse/tahmin edilirse gruplama düşer ve km +%25-40 artar ([hazır zamanı üç koşul](../benchmark/README.md)); hazır zamanı dağıtımda açılmadan önce bu ayrıca incelenmelidir. v1 `planBatch` değişmedi (varsayılan `results.csv` bayt düzeyinde aynı).

diff --git a/docs/kararlar/README.md b/docs/kararlar/README.md
@@ -29,10 +29,12 @@ Mimari ve teknoloji kararları, bağlamı ve alternatifleriyle birlikte burada t
 | [0021](0021-haftalik-osm-guncelleme-hatti.md) | Haftalık OSM güncelleme hattı: Node orkestra, sürüm dizinleri, iç geçitle mavi / yeşil OSRM ve Photon, kapılar, geri alma | Önerildi |
 | [0022](0022-uretim-dagitimi-ucretsiz-katman.md) | Pilot öncesi üretim dağıtımı, yalnızca ücretsiz bileşenlerle (Caddy + Let's Encrypt, saatlik pg_dump, Uptime Kuma, yalın CI, sırlar, APK imzalama) | Önerildi |
 | [0023](0023-dagitim-algoritmasi-v2.md) | Dağıtım algoritması v2: kayan ufuk toplu atama + sınırlı kuryeler arası ALNS (bayrak arkasında); CBBA yalnızca araştırma taban çizgisi | Kabul edildi (Faz 2: bayrak arkasında) |
+| [0024](0024-navigasyon-render-performansi.md) | Navigasyon ekranında render performansı: yerel öngörülü kamera, rota yönünden course-up, konum başına harita ağacı çizimi yok, rota baş / kuyruk, hedef işareti yalnızca ekrana yakınken, düşük donanım kademesi | Önerildi |
 | [0025](0025-isletme-hazir-baglantisi.md) | İşletme "paket hazır" bağlantısı: girişsiz, kısa ömürlü opak jeton (URL parçasında), yalnızca o işletmenin açık paketleri | Önerildi |
 | [0026](0026-teslim-geofence-politikasi.md) | Teslim kanıtı geofence politikası: ölçüm kipiyle başlangıç, etkin teslim noktasına tolerans, gerekçeli geçersiz kılma, öğrenmeden dışlama | Önerildi |
+| [0027](0027-marka-kimligi-ve-navigasyon-gorsel-dili.md) | Marka kimliği ve navigasyon görsel dili: koyu krom + neon yeşil, gündüz açık harita, koyu krom üzerinde metin ≥ 7:1 (önce kurye uygulaması, panel ayrı görev) | Kabul edildi |
 
-İterasyon 1 teknik spesifikasyonu: docs/iterasyon-1/SPEC.md. İterasyon 2 ana hedefi (rota uyumlu atama) tasarımı: docs/iterasyon-2/ROTA-UYUMLU-ATAMA.md. Kuryeler arası devir tasarımı: docs/iterasyon-2/KURYE-DEVIR.md. İterasyon 2 teknik spesifikasyonu: docs/iterasyon-2/SPEC.md. İterasyon 3 (harita platformu) planı: docs/iterasyon-3/PLAN.md; İterasyon 3a teknik spesifikasyonu: docs/iterasyon-3/SPEC-3a.md; İterasyon 3b teknik spesifikasyonu: docs/iterasyon-3/SPEC-3b.md. (0024 navigasyon çalışma kolunda ayrılmıştır.) (0015 numarası başka bir çalışma kolunda ayrılmıştır.)
+İterasyon 1 teknik spesifikasyonu: docs/iterasyon-1/SPEC.md. İterasyon 2 ana hedefi (rota uyumlu atama) tasarımı: docs/iterasyon-2/ROTA-UYUMLU-ATAMA.md. Kuryeler arası devir tasarımı: docs/iterasyon-2/KURYE-DEVIR.md. İterasyon 2 teknik spesifikasyonu: docs/iterasyon-2/SPEC.md. İterasyon 3 (harita platformu) planı: docs/iterasyon-3/PLAN.md; İterasyon 3a teknik spesifikasyonu: docs/iterasyon-3/SPEC-3a.md; İterasyon 3b teknik spesifikasyonu: docs/iterasyon-3/SPEC-3b.md. (0015 numarası başka bir çalışma kolunda ayrılmıştır.)
 
 ## Durumlar
 

diff --git a/docs/kararlar/0025-isletme-hazir-baglantisi.md b/docs/kararlar/0025-isletme-hazir-baglantisi.md
@@ -39,3 +39,11 @@ Kısıtlar: hiçbir ücretli servis yok (SMS / WhatsApp Business API kullanılam
 | SMS / WhatsApp Business API ile otomatik gönderim | Ücretli; ürün sahibinin kuralı |
 | Paket başına ayrı bağlantı | Restoran her sipariş için yeni bağlantı açmak zorunda kalır; işletme başına tek sayfa daha kullanışlı |
 | Süresiz bağlantı | Sızıntı etkisi zamanla büyür; kısa ömür + kolay yenileme daha güvenli |
+
+## Uygulama notları (İterasyon 3b-2, Görev Q3b)
+
+- **Kod:** `services/api/src/business-link/` (servis, koruyucu, panel ve girişsiz denetleyiciler). Jeton `crypto.randomBytes(32)` base64url (43 karakter); veritabanında yalnızca `sha256` özeti; `X-Business-Link-Token` başlığı hiçbir günlüğe yazılmaz (istek serileştiricisi yalnızca `authorization` ve `user-agent` taşır; `business-link.e2e-spec.ts` günlük testi).
+- **Hız sınırı:** jeton başına `BUSINESS_LINK_RATE_PER_MIN` (30) / dk koruyucuda Redis sayacıyla (`RATE_LIMITED`, 429, `Retry-After`); IP başına ×2 genel hız sınırlayıcıda (`app.factory.ts` `bl-ip` kuralı). Tüm `/business-link/*` yanıtları (hata ve 429 dahil) `Cache-Control: no-store` ve `Referrer-Policy: no-referrer` taşır.
+- **Kapsam:** liste son 12 saat CREATED / IN_POOL / ASSIGNED + son 30 dk PICKED_UP; `dropoffHint` adres metninin ilk virgülüne kadar, <= 40 karakter (hukuk görüşüne bağlı, alan kolayca kaldırılabilir). Başka işletmenin paketi 404, alınmış 409.
+- **Sapma:** "hazır" çağrısı `ready_at_source = SIGNAL` iken idempotenttir (SPEC'teki "ready_signaled_at doluysa" yerine); kurye "Hazır değil" dedikten sonra "Hazır oldu" / panel "Hazır" yeniden `readyAt = şimdi` yapar ve `ready_signaled_at` ilk değerini korur.
+- CORS: `allowedHeaders` listesine `X-Business-Link-Token` eklendi (önkontrol testi). Saklama: bitiş / iptalden 30 gün sonra `JobsService.runRetention` siler.

diff --git a/docs/YOL-HARITASI.md b/docs/YOL-HARITASI.md
@@ -145,9 +145,11 @@ Beş paralel görev (gorevler/): **R** rota altyapısı + motor + benchmark, **A
 - [ ] "Çevrimdışı" göstergesini yalnızca cihaz ağına değil sunucuya erişilememesine de bağlamak (zayıf kapsamada ağ "bağlı" görünür; uygulama 4 sn sonra önbellekle açılır)
 - [ ] Panelde `courier.sync_conflict` bildiriminin gerçek akışta ekran görüntüsü; ikinci şehir poligonu için bootstrap seçeneği
 - [ ] Adres kalitesi: site / kampüs kapısı ve belediye binası gibi yerlerde konum düzeltme (öğrenilmiş nokta, 3b-1)
+- [x] Navigasyon ekranı akıcılığı ve course-up düzeltmesi (harita rota yönüne döner; yerel öngörülü kamera, konum başına harita ağacı çizimi yok, düşük donanım kademesi; [ADR-0024](kararlar/0024-navigasyon-render-performansi.md), ölçüm)
+- [ ] Navigasyon kare ölçümü gerçek ucuz Android cihazda (protokol); emülatörde MapLibre GL iş parçacığı doygun, 60 fps görülemedi
 
 **3b**
-- [ ] Öğrenilmiş teslim noktaları (3b-1), restoran "paket hazır" sinyali + hazırlık süresi öğrenme (3b-2), aynı restoran gruplamayı iyileştirme (3b-3), teslim geofence'i (3b-4) — **spec hazır** (SPEC-3b; kararlar [ADR-0025](kararlar/0025-isletme-hazir-baglantisi.md), [ADR-0026](kararlar/0026-teslim-geofence-politikasi.md))
+- [ ] Öğrenilmiş teslim noktaları (3b-1), restoran "paket hazır" sinyali + hazırlık süresi öğrenme (3b-2), aynı restoran gruplamayı iyileştirme (3b-3), teslim geofence'i (3b-4) — **spec hazır; 3b-3 motoru ve benchmark (gruplama, hazır zamanı üç koşul) PR'da, ayar varsayılanı kapalı** (SPEC-3b; kararlar [ADR-0025](kararlar/0025-isletme-hazir-baglantisi.md), [ADR-0026](kararlar/0026-teslim-geofence-politikasi.md))
 - [ ] Dağıtım v2 ayarları için panel ekranı (3b-5) — **spec hazır** (SPEC-3b §10)
 
 **3c**

diff --git a/docs/MIMARI.md b/docs/MIMARI.md
@@ -284,6 +284,8 @@ sequenceDiagram
 
 Sunucu durum tutmaz; Türkçe metinler yalnızca sunucuda üretilir. Sınırlar: canlı trafik, şerit ve hız sınırı yok (ADR-0015 madde 5).
 
+**Render performansı ([ADR-0024](kararlar/0024-navigasyon-render-performansi.md)):** kamera (course-up, yön rota geometrisinden) her konumda MapLibre'nin yerel animasyonuyla, öngörülü hedefle akar; harita ağacı konum başına çizilmez (konuma bağlı her harita parçası kendi bileşeninde abone; yalnızca rota başı kaynağı her okumada güncellenir); rota çizgisi baş / kuyruk kaynaklarına bölünür; RN hedef işareti yalnızca ekrana yakınken eklenir; düşük donanımda (< 2,5 GB RAM, emülatör hariç) 30 fps ve düz kamera, diğerlerinde uyarlanır 60 -> 30 fps tavanı. Ölçüm düzeni ve sonuçlar: NAVIGASYON-AKICILIK.md.
+
 ### 6.2 Kuryeler arası devir (iterasyon 2)
 
 Pilot müşterinin isteği: bir kurye, kendisine atanmış paketi, konumunun yakınındaki vardiyada olan bir meslektaşına devredebilsin ([ADR-0010](kararlar/0010-kuryeler-arasi-devir.md)). Özet akış:

diff --git a/README.md b/README.md
@@ -197,7 +197,7 @@ Aşağıdaki görüntüler emülatörde, **gerçek API + kendi karolarımız + k
   <tr>
     <td align="center"><img src="docs/assets/screenshots/kurye-navigasyon-yeniden-rota.png" width="220" alt="Yeniden rota"><br><sub>Yoldan çıkınca yeniden rota</sub></td>
     <td align="center"><img src="docs/assets/screenshots/kurye-navigasyon-varis.png" width="220" alt="Varış kartı"><br><sub>Varış: Ara + kaydırarak onay</sub></td>
-    <td align="center" colspan="2"><img src="docs/assets/gifs/kurye-navigasyon.gif" width="220" alt="Navigasyon GIF"><br><sub>Sürüş, sapma ve varış</sub></td>
+    <td align="center" colspan="2"><img src="docs/assets/gifs/kurye-navigasyon.gif" width="220" alt="Navigasyon GIF"><br><sub>Sürüş: rota yönünde dönen harita (course-up)</sub></td>
   </tr>
 </table>
 

diff --git a/docs/kararlar/0023-dagitim-algoritmasi-v2.md b/docs/kararlar/0023-dagitim-algoritmasi-v2.md
@@ -58,3 +58,7 @@
 | CBBA (merkeziyetsiz açık artırma) | Bilgi ve iletişim zaten merkezde; gruplama ve geç teslimde geride; yakınsama için teklif bükme sinerjiyi siler; sınırlı menzilde çift atama |
 | CBBA ile görevleri her pencerede serbest bırakmak | Yoğunlukta km kazancı ALNS'ye yakın ama 3,5 kat yeniden atama, daha kötü geç teslim ve gruplama |
 | Değer fonksiyonu / pekiştirmeli öğrenme (Didi, Meituan tarzı) | Veri gerektirir; pilot verisi birikince gelecek iş |
+
+## Not (2026-11-06): gruplama
+
+İterasyon 3b-3 gruplama sonucu (κ, τ, sonradan bağlama, işletme duyarlı kapanış; v2 yolunda bayraklı): bkz. [ADR-0014 sonuç notu](0014-toplu-atama-regret-ekleme.md) ve benchmark.
